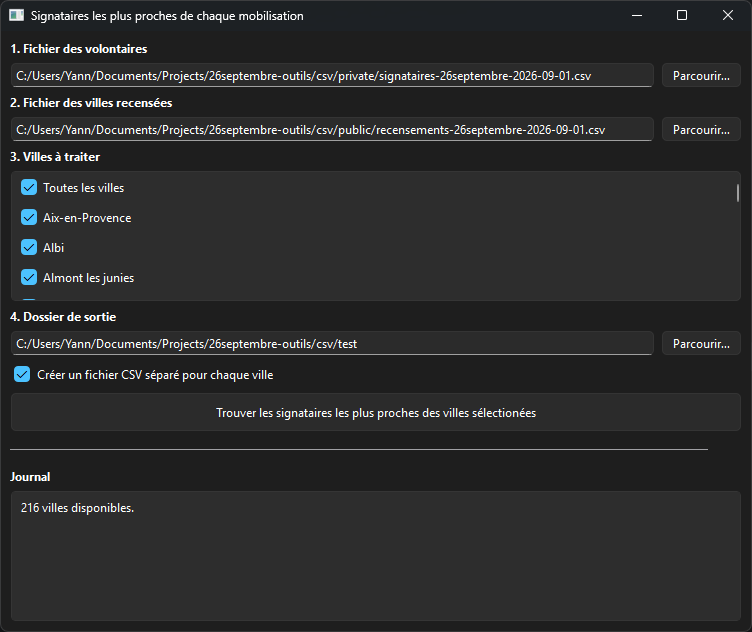
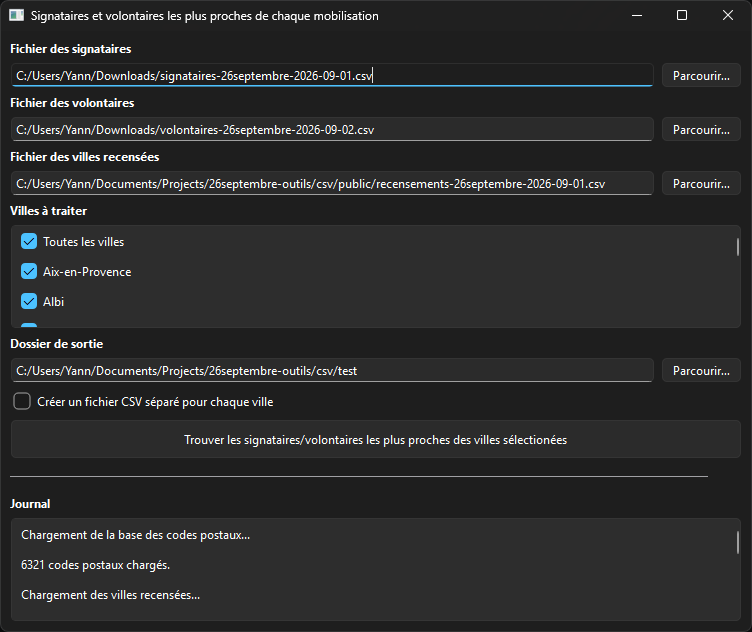
volontaires : update README

diff --git a/README.md b/README.md
@@ -15,7 +15,7 @@ Il est possible de générer un fichier global pour l'ensemble des villes sélec
 Sur la page des exports du site [26septembre.org](https://26septembre.org/admin/export), télécharger le fichier des signataires et des villes recensées, en cochant bien toutes les cases.
 
 ![Export Signataires](docs/images/export_signataires.png)<br/>
-![Export Villes](docs/images/export_villes.png)
+![Export Villes](docs/images/export_volontaires_villes.png)
 
 ### Télécharger l'outil
 Télécharger la dernière version du fichier `signataires_villes_proches.exe` dans les [releases](https://github.com/FunkyKwak/26septembre-outils/releases).
@@ -25,7 +25,7 @@ Télécharger la dernière version du fichier `signataires_villes_proches.exe` d
 > La première fois seulement : Ignorer l'alerte de Windows Defender (je n'ai pas payé de certificat, environ 300€/an): Cliquer sur "Exécuter quand même".
 
 
-1. Renseigner les 2 fichiers précédemment exportés dans les champs correspondants (via glisser-déposer ou le bouton "Parcourir")
+1. Renseigner les 3 fichiers précédemment exportés dans les champs correspondants (via glisser-déposer ou le bouton "Parcourir")
 2. Sélectionner une ou plusieurs villes selon le besoin
 3. Choisir un dossier de sortiie, dans lequel seront générés les fichiers
 3. Cocher la case "Créer un fichier CSV séparé pour chaque ville" si besoin, poour par exemple pouvoir envoyer les fichiers séparéments à l''organisation de la marche dans chaque ville 
